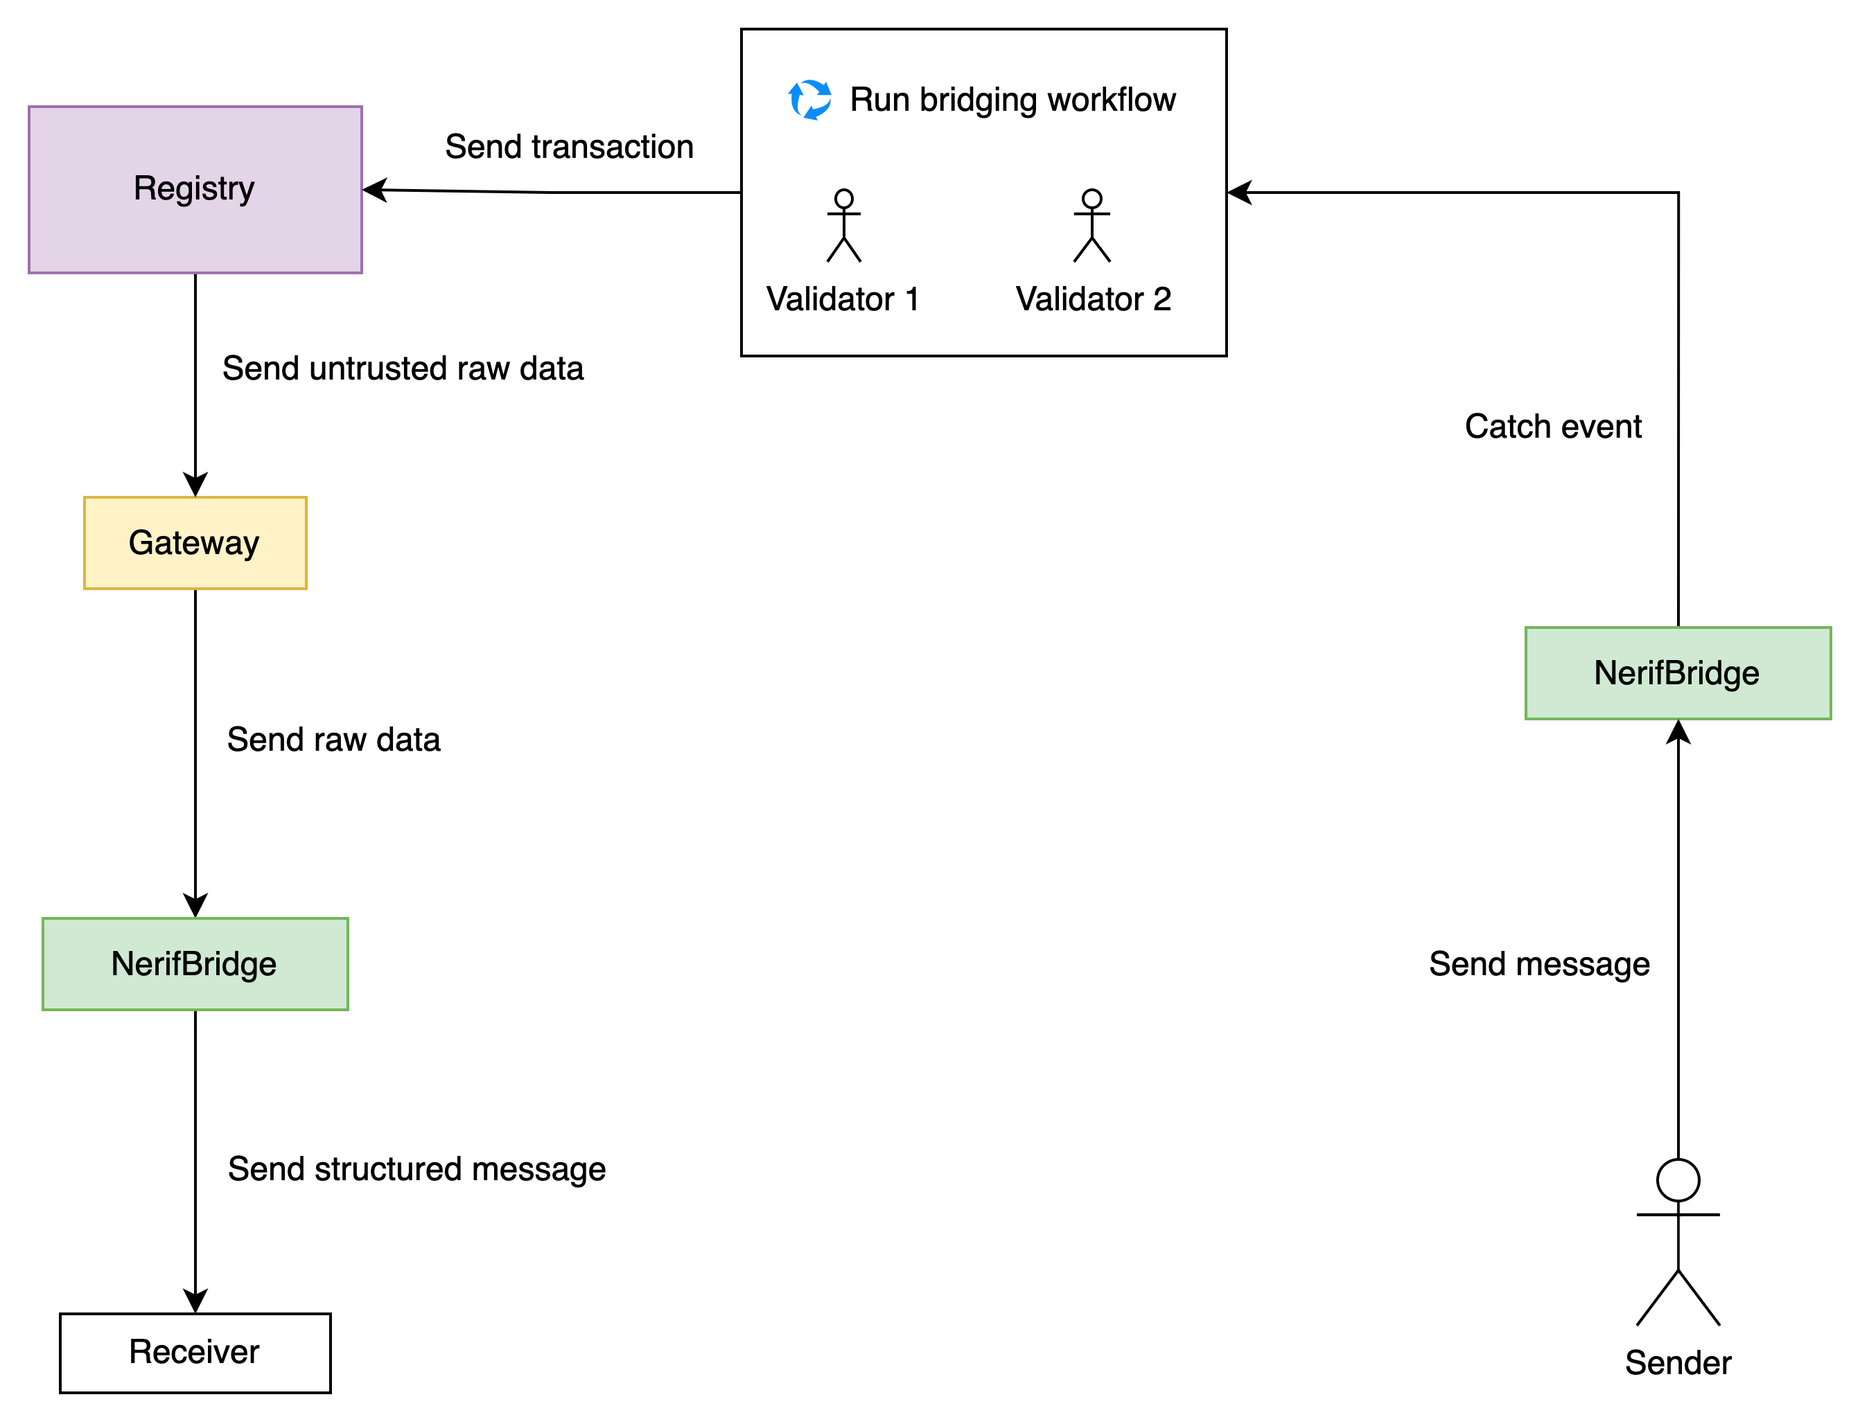
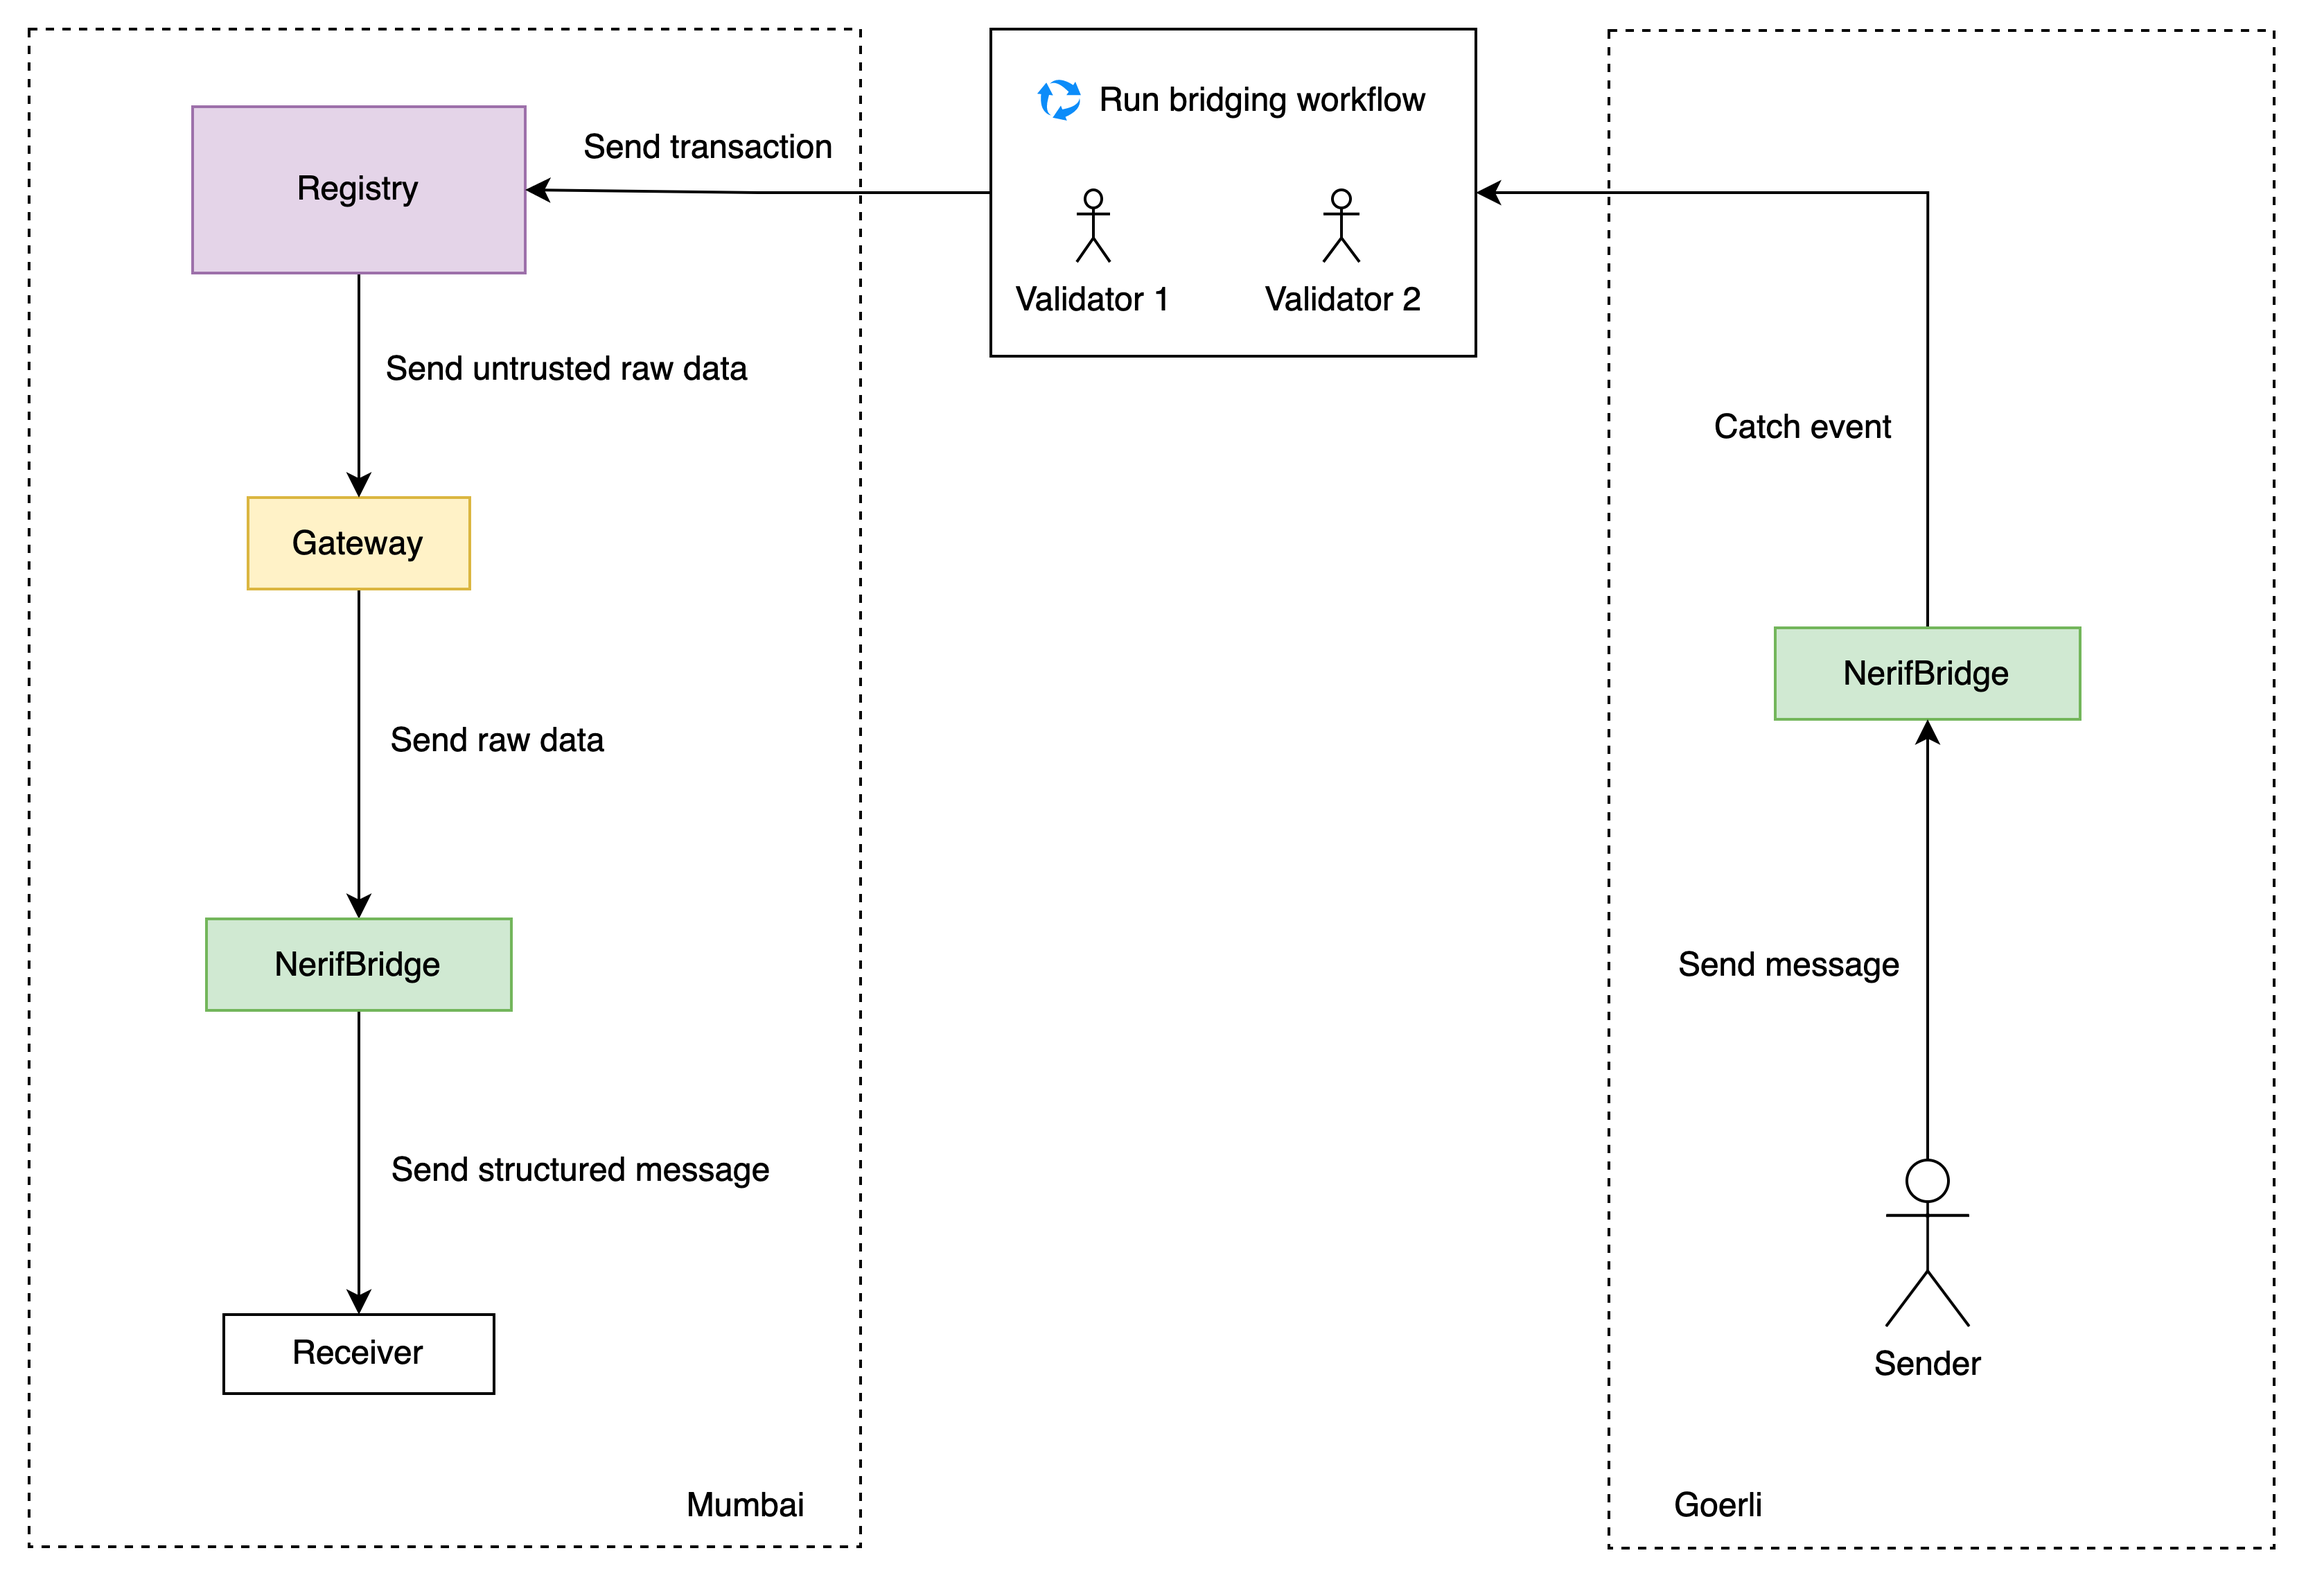
Added docs

diff --git a/README.md b/README.md
@@ -1,5 +1,56 @@
 # Nerif Bridge
 
+**DO NOT USE FOR PRODUCTION PURPOSES**
+
 Nerif Bridge is the decentralized cross-chain bridge powered by Nerif Network.
 
 ![img.png](./docs/structure.png)
+
+## Set up
+
+Bootstrapping the Nerif Bridge requires deploying several smart contracts and creating a special workflow within Nerif Network in order to power the bridge.
+
+Bridge contracts deployment requires having [Gateway](https://github.com/nerifnetwork/contracts/blob/main/contracts/operational/Gateway.sol) contract already deployed.
+
+### Initialize environment
+
+First aff all, run the following command in order to create all required environment files:
+
+```bash
+$ make init
+```
+
+As a results, the following files will be created: .env, contracts-5.json, contracts-80001.json.
+Replace gateway address for the real one in those .json files. Specify real values in .env file.
+
+Now the bridge contracts can be deployed:
+
+```bash
+$ make deploy
+```
+
+As a result, [the bridge contract](./contracts/bridge/NerifBridge.sol) will be deployed on Goerli (5) and Mumbai (80001) chains.
+Addresses are stored in those .json filed in the root of the repo.
+
+### Create Nerif Network workflow
+
+All needed contracts are deployed so those can be automated by Nerif Network.
+It requires creating a bridging workflow that has the following logic:
+
+1. Trigger workflow execution when `event Send(uint256 chainId, address target, bytes payload, uint256 gasAmount, address sender)` event is emitted on the Goerli chain within the bridge contract.
+2. Add conditional step to check the given chain ID and exit the workflow if the value is not 80001.
+3. Otherwise, send a transaction to the bridge contract deployed on Mumbai chain in order to execute `rec` function within the contract. Pass all required arguments coming from the event.
+
+*Note: other steps could be added at the bridge owner's discretion.*
+
+### Test
+
+There is [the test receiver contract](./contracts/test/TestReceiver.sol) that can be deployed on those chains.
+
+The following command deploys this contract on the Mumbai (80001) chain:
+
+```bash
+$ make deploy-receiver
+```
+
+Test receiver contract address is stored in the contracts-80001.json file.
